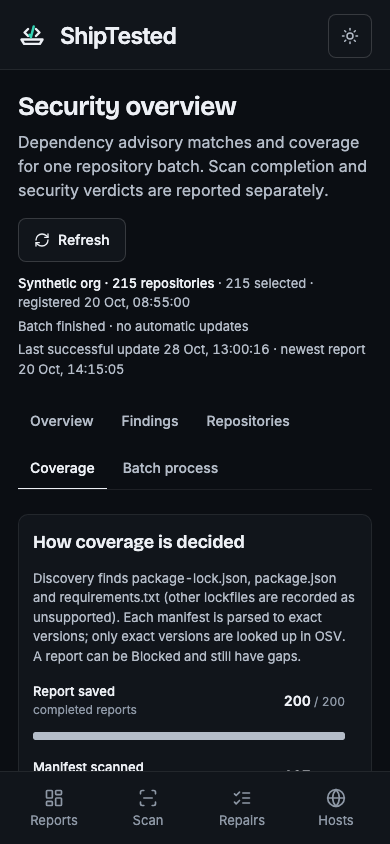
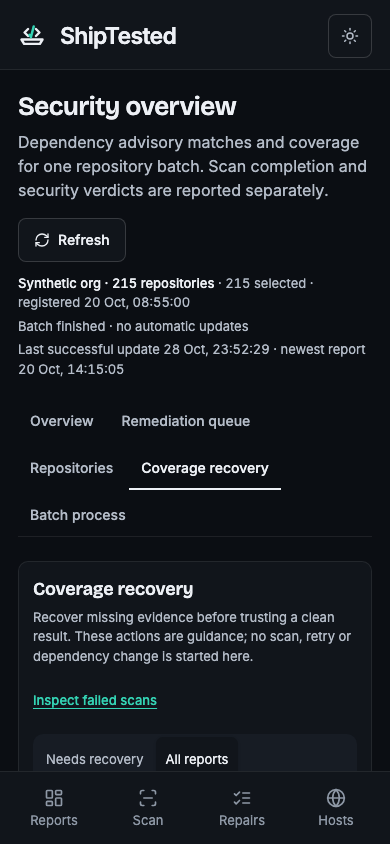
feat(dashboard): add remediation ranking and coverage recovery

Changed region(s): [[0.0615, 0.4929, 0.8923, 0.9242], [0.5846, 0.4005, 0.6769, 0.4313], [0.8308, 0.8009, 0.8615, 0.8318]]

diff --git a/src/app/security-overview/views.tsx b/src/app/security-overview/views.tsx
@@ -3,7 +3,7 @@ import {useEffect,useRef,useState} from 'react';
 import Link from 'next/link';
 import {ArrowUpRight,Search,X} from 'lucide-react';
 import {batchLabels,batchStates,type BatchState} from '@/lib/batch-progress';
-import {gapCodes,gapLabels,stageLabels,severities,verdicts,type GapCode,type Severity,type Verdict,type CoverageStage} from '@/lib/security-dashboard';
+import {remediationModes,remediationLabels,remediationDescriptions,recoveryActions,type RemediationMode,gapCodes,gapLabels,stageLabels,severities,verdicts,type GapCode,type Severity,type Verdict,type CoverageStage} from '@/lib/security-dashboard';
 import type {Loaded,Nav} from './security-dashboard';
 import styles from './security.module.css';
 
@@ -53,29 +53,29 @@ function FixLine({g}:{g:{packages:{name:string;installed:{version:string;fixedVe
  return <ul className={styles.fixList}>{g.packages.map(p=><li key={p.name}><code>{p.name}</code>{p.installed.map(i=><span key={i.version} className={styles.fixPair}><code>{i.version}</code><span aria-hidden="true">→</span>{i.fixedVersions.length?<code className={styles.fixed}>{i.fixedVersions.join(' / ')}</code>:<span className={styles.muted}>no fix recorded</span>}</span>)}{p.moreVersions?<span className={styles.muted}>+{p.moreVersions} more versions</span>:null}</li>)}</ul>;
 }
 
+function QueueRanking({value,nav}:{value:RemediationMode;nav:Nav}){
+ return <div className={styles.ranking}><Segmented<RemediationMode> label="Rank remediation queue" value={value} options={remediationModes.map(value=>({value,label:remediationLabels[value]}))} onChange={sort=>nav({sort})}/><p className={styles.note}>{remediationDescriptions[value]}</p></div>;
+}
+function FixSummary({g}:{g:Of<'fixFirst'>['fixFirst'][number]}){
+ return <span className={styles.source}>{g.packages.map(p=>p.name).join(' · ')} · {g.hasFix?'Fixed version recorded for at least one version':'No fixed version recorded'} · Open evidence for exact versions and manifests</span>;
+}
+function RecoverySteps({gaps}:{gaps:GapCode[]}){
+ const actions=recoveryActions(gaps);
+ return actions.length?<details className={styles.recoverySteps}><summary>{actions[0].title}{actions.length>1&&<small className={styles.source}>+{actions.length-1} more recovery {actions.length===2?'action':'actions'}</small>}</summary>{actions.map(a=><div key={a.code}><strong>{a.title}</strong><p>{a.action}</p></div>)}</details>:<span className={styles.muted}>No recorded dependency coverage gap. This does not establish full security coverage.</span>;
+}
+
 export function OverviewView({data,nav}:{data:Of<'fixFirst'>;nav:Nav}){
  const o=data.overview,op=o.operational;
  return <div className={styles.stackGap}>
-  <section className={styles.split} aria-labelledby="ops-h">
-   <div className={styles.panel}>
-    <h2 id="ops-h">What happened in the batch</h2>
-    <StackBar title="Repository processing" caption={`of ${n(o.batch.total)} selected repositories`} denominator={o.batch.total} segments={batchStates.map(s=>({key:s,label:batchLabels[s],count:op[s],tone:stateTone[s],onSelect:()=>nav({view:'process',state:s})}))}/>
-    <p className={styles.note}>{n(op.accepted)} scan jobs accepted · {n(op.completed)} completed · {n(op.failed+op.cancelled)} failed or cancelled · {n(op.skipped)} verified empty repositories skipped (not scanned) · {n(op.waiting+op.queued+op.running)} remaining. Processing state says nothing about security.</p>
-   </div>
-   <div className={styles.panel}>
-    <h2>Security verdicts</h2>
-    <StackBar title="Report verdicts" caption={`of ${n(o.verdicts.denominator)} completed reports (current revisions)`} denominator={o.verdicts.denominator} segments={verdicts.map(v=>({key:v,label:v,count:o.verdicts.counts[v],tone:verdictTone[v],onSelect:()=>nav({view:'repositories',verdict:v})}))}/>
-    <p className={styles.note}>Blocked = a high-severity advisory matched an installed version (not confirmed exploitation). Checks passed = only the supported checks passed.{o.verdicts.missingReports?` ${o.verdicts.missingReports} completed jobs have no readable report.`:''}{o.freshness.refreshedReports?` ${o.freshness.refreshedReports} reports are advisory-refresh revisions; each repository is counted once.`:''}</p>
-   </div>
-  </section>
-
+  <div className={styles.batchStrip}><span><strong>{n(op.completed)} / {n(o.batch.total)}</strong> scans completed</span><button type="button" onClick={()=>nav({view:'process'})}>{n(op.failed+op.cancelled)} failed or cancelled · {n(op.skipped)} skipped · {n(op.waiting+op.queued+op.running)} remaining</button><button type="button" onClick={()=>nav({view:'coverage',recovery:'needed'})}>Review coverage gaps <ArrowUpRight size={14} aria-hidden="true"/></button></div>
   <section className={styles.panel} aria-labelledby="first-h">
-   <div className={styles.sectionHead}><div><h2 id="first-h">Fix first</h2><p className={styles.note}>High, then medium advisories ordered by affected repositories, then CVSS, then whether a fixed version is recorded. This is a sort order over recorded facts, not a risk score.</p></div><button type="button" className={styles.linkButton} onClick={()=>nav({view:'findings'})}>All findings</button></div>
+   <div className={styles.sectionHead}><div><h2 id="first-h">Remediation queue</h2><p className={styles.note}>One advisory, every affected repository. Choose a ranking, then inspect the evidence before changing dependencies.</p></div><button type="button" className={styles.linkButton} onClick={()=>nav({view:'findings'})}>Open full queue</button></div>
+   <QueueRanking value={data.filters.sort} nav={nav}/>
    {data.fixFirst.length?<ol className={styles.queue}>{data.fixFirst.map((g,i)=><li key={g.key}>
     <span className={styles.rank}>{i+1}</span>
-    <div className={styles.queueMain}><button type="button" className={styles.titleButton} onClick={()=>nav({advisory:g.key},{keepPage:true})}><span className={styles.advId}>{g.advisoryId||'Credential pattern'}</span>{g.title}</button><FixLine g={g}/></div>
+    <div className={styles.queueMain}><button type="button" className={styles.titleButton} onClick={()=>nav({advisory:g.key},{keepPage:true})}><span className={styles.advId}>{g.advisoryId||'Credential pattern'}</span>{g.title}</button><FixSummary g={g}/></div>
     <div className={styles.queueMeta}><SeverityTag level={g.severity}/><span>{g.cvss!==null?`CVSS ${g.cvss.toFixed(1)}`:'CVSS not provided'}</span><span><strong>{n(g.repositories)}</strong> {g.repositories===1?'repository':'repositories'} · {n(g.occurrences)} occurrences</span></div>
-   </li>)}</ol>:<p className={styles.emptyLine}>No high or medium advisory matches in the completed reports. Coverage gaps below may still hide matches.</p>}
+   </li>)}</ol>:<p className={styles.emptyLine}>No recorded advisories match this queue. Coverage gaps may still hide matches.</p>}
   </section>
 
   <section className={styles.kpis} aria-label="Finding totals">
@@ -97,6 +97,19 @@ export function OverviewView({data,nav}:{data:Of<'fixFirst'>;nav:Nav}){
    </div>
   </section>
 
+  <section className={styles.split} aria-labelledby="ops-h">
+   <div className={styles.panel}>
+    <h2 id="ops-h">What happened in the batch</h2>
+    <StackBar title="Repository processing" caption={`of ${n(o.batch.total)} selected repositories`} denominator={o.batch.total} segments={batchStates.map(s=>({key:s,label:batchLabels[s],count:op[s],tone:stateTone[s],onSelect:()=>nav({view:'process',state:s})}))}/>
+    <p className={styles.note}>{n(op.accepted)} scan jobs accepted · {n(op.completed)} completed · {n(op.failed+op.cancelled)} failed or cancelled · {n(op.skipped)} verified empty repositories skipped (not scanned) · {n(op.waiting+op.queued+op.running)} remaining. Processing state says nothing about security.</p>
+   </div>
+   <div className={styles.panel}>
+    <h2>Security verdicts</h2>
+    <StackBar title="Report verdicts" caption={`of ${n(o.verdicts.denominator)} completed reports (current revisions)`} denominator={o.verdicts.denominator} segments={verdicts.map(v=>({key:v,label:v,count:o.verdicts.counts[v],tone:verdictTone[v],onSelect:()=>nav({view:'repositories',verdict:v})}))}/>
+    <p className={styles.note}>Blocked = a high-severity advisory matched an installed version (not confirmed exploitation). Checks passed = only the supported checks passed.{o.verdicts.missingReports?` ${o.verdicts.missingReports} completed jobs have no readable report.`:''}{o.freshness.refreshedReports?` ${o.freshness.refreshedReports} reports are advisory-refresh revisions; each repository is counted once.`:''}</p>
+   </div>
+  </section>
+
   <section className={styles.panel} aria-labelledby="gaps-h">
    <h2 id="gaps-h">Coverage gaps</h2>
    <p className={styles.note}>Each bar is out of {n(o.gaps.denominator)} completed reports, including Blocked ones. A report can have several gaps, so these categories overlap and must not be added together.</p>
@@ -114,16 +127,17 @@ function GapBars({counts,denominator,nav}:{counts:Record<GapCode,number>;denomin
 export function FindingsView({data,nav}:{data:Of<'findings'>;nav:Nav}){
  const f=data.findings,o=data.overview,flt=data.filters;
  return <section className={styles.panel} aria-labelledby="find-h">
-  <div className={styles.sectionHead}><div><h2 id="find-h">Findings across repositories</h2><p className={styles.note}>{n(o.findings.uniqueAdvisories)} unique advisories · {n(o.findings.affectedRepositories)} affected repositories · {n(o.findings.occurrences)} dependency occurrences. Grouped by advisory; an affected-version match is not confirmed exploitability.</p></div></div>
+  <div className={styles.sectionHead}><div><h2 id="find-h">Remediation queue</h2><p className={styles.note}>{n(o.findings.uniqueAdvisories)} unique advisories · {n(o.findings.affectedRepositories)} affected repositories · {n(o.findings.occurrences)} dependency occurrences. Grouped by advisory; an affected-version match is not confirmed exploitability.</p></div></div>
+  <QueueRanking value={flt.sort} nav={nav}/>
   <div className={styles.toolbar}><SearchBox label="Search advisory, package or repository" value={flt.q} onChange={q=>nav({q})}/>
    <Segmented<Severity> label="Filter by severity" value={flt.severity} onChange={v=>nav({severity:v})} options={[{value:null,label:'All',count:o.findings.uniqueAdvisories},...severities.map(s=>({value:s,label:sevLabel[s],count:o.findings.bySeverity[s]}))]}/>
    <Clear active={!!(flt.q||flt.severity)} nav={nav} keys={['q','severity']}/></div>
   {f.items.length?<div className={styles.tableWrap}><table className={styles.table}><caption className={styles.srOnly}>Advisories grouped across repositories</caption>
-   <thead><tr><th scope="col">Advisory</th><th scope="col">Severity</th><th scope="col">Installed → advisory fix</th><th scope="col" className={styles.num}>Repositories</th><th scope="col" className={styles.num}>Occurrences</th><th scope="col"><span className={styles.srOnly}>Evidence</span></th></tr></thead>
+   <thead><tr><th scope="col">Advisory</th><th scope="col">Severity</th><th scope="col">Remediation</th><th scope="col" className={styles.num}>Repositories</th><th scope="col" className={styles.num}>Occurrences</th><th scope="col"><span className={styles.srOnly}>Evidence</span></th></tr></thead>
    <tbody>{f.items.map(g=><tr key={g.key}>
     <th scope="row"><span className={styles.advId}>{g.advisoryId||'Credential pattern'}</span><span className={styles.cellTitle}>{g.title}</span></th>
     <td><SeverityTag level={g.severity}/><small className={styles.source}>{[g.cvss!==null&&!g.severitySources.some(x=>x.startsWith('CVSS'))?`CVSS ${g.cvss.toFixed(1)}`:null,...g.severitySources].filter(Boolean).join(' · ')||'Source not recorded'}</small></td>
-    <td><FixLine g={g}/></td>
+    <td><FixSummary g={g}/></td>
     <td className={styles.num}><strong>{n(g.repositories)}</strong><small className={styles.source}>{g.repositorySample.join(', ')}{g.repositories>3?'…':''}</small></td>
     <td className={styles.num}>{n(g.occurrences)}</td>
     <td><button type="button" className="button" onClick={()=>nav({advisory:g.key},{keepPage:true})}>Evidence<span className={styles.srOnly}> for {g.advisoryId||g.title}</span></button></td>
@@ -148,7 +162,7 @@ type RepoItem=Of<'repositories'>['repositories']['items'][number];
 function RepoTable({items,coverage}:{items:RepoItem[];coverage:boolean}){
  if(!items.length)return <p className={styles.emptyLine}>No repositories match these filters.</p>;
  return <div className={styles.tableWrap}><table className={styles.table}><caption className={styles.srOnly}>Repositories with completed reports</caption>
-  <thead><tr><th scope="col">Repository</th><th scope="col">Verdict</th>{!coverage&&<th scope="col" className={styles.num}>High</th>}{!coverage&&<th scope="col" className={styles.num}>Medium</th>}{!coverage&&<th scope="col" className={styles.num}>Low / unrated</th>}<th scope="col" className={styles.num}>Deps checked</th><th scope="col">Coverage</th><th scope="col"><span className={styles.srOnly}>Report</span></th></tr></thead>
+  <thead><tr><th scope="col">Repository</th><th scope="col">Verdict</th>{!coverage&&<th scope="col" className={styles.num}>High</th>}{!coverage&&<th scope="col" className={styles.num}>Medium</th>}{!coverage&&<th scope="col" className={styles.num}>Low / unrated</th>}<th scope="col" className={styles.num}>Deps checked</th><th scope="col">Coverage</th>{coverage&&<th scope="col">Next step</th>}<th scope="col"><span className={styles.srOnly}>Report</span></th></tr></thead>
   <tbody>{items.map(r=><tr key={r.repository}>
    <th scope="row"><span className={styles.repoName}>{r.repository}</span>{coverage&&'omissions' in r&&<CoverageDetail r={r as CoverageItem}/>}</th>
    <td><VerdictTag verdict={r.verdict}/></td>
@@ -157,6 +171,7 @@ function RepoTable({items,coverage}:{items:RepoItem[];coverage:boolean}){
    {!coverage&&<td className={styles.num}>{r.severityCounts.low} / {r.severityCounts.review}</td>}
    <td className={styles.num} data-zero={r.dependencyCount===0||undefined}>{n(r.dependencyCount)}<small className={styles.source}>{r.manifests} manifests{r.omitted?` · ${r.omitted} omitted`:''}</small></td>
    <td>{r.stage&&<span className={styles.stage} data-stage={r.stage}>{stageLabels[r.stage]}</span>}{r.gaps.filter(g=>g!=='zero_dependencies').length>0&&<ul className={styles.chips}>{r.gaps.filter(g=>g!=='zero_dependencies').map(g=><li key={g}>{gapLabels[g].label}</li>)}</ul>}</td>
+   {coverage&&<td><RecoverySteps gaps={r.gaps}/></td>}
    <td>{r.reportId&&<Link href={reportHref(r.reportId)}>Report<span className={styles.srOnly}> for {r.repository}</span></Link>}{r.refreshed&&<small className={styles.source}>refreshed revision</small>}</td>
   </tr>)}</tbody></table></div>;
 }
@@ -164,7 +179,8 @@ function RepoTable({items,coverage}:{items:RepoItem[];coverage:boolean}){
 type CoverageItem=RepoItem&{omissions:{path:string;reason:string;recorded:boolean}[];moreOmissions:number;manifestPaths:string[];dependenciesByManifest:Record<string,number>};
 function CoverageDetail({r}:{r:CoverageItem}){
  if(!r.manifestPaths.length&&!r.omissions.length)return <small className={styles.source}>No supported manifest found by discovery.</small>;
- return <details className={styles.details}><summary>{r.manifestPaths.length} scanned · {r.omissions.length+r.moreOmissions} omitted</summary>
+ return <details className={styles.details}><summary>{r.manifests} scanned · {r.omissions.length+r.moreOmissions} omitted</summary>
+  <p className={styles.note}>Scanned commit: <code>{r.commit||'Not recorded'}</code>. Showing up to 20 manifest paths; see the report for the full evidence.</p>
   {r.manifestPaths.length>0&&<ul>{r.manifestPaths.map(m=><li key={m}><code>{m}</code><span>{n(r.dependenciesByManifest[m]||0)} exact versions</span></li>)}</ul>}
   {r.omissions.length>0&&<ul>{r.omissions.map(o=><li key={o.path}><code>{o.path}</code><span data-unrecorded={!o.recorded||undefined}>{o.reason}</span></li>)}{r.moreOmissions?<li className={styles.muted}>+{r.moreOmissions} more omitted files in the report</li>:null}</ul>}
  </details>;
@@ -174,15 +190,9 @@ export function CoverageView({data,nav}:{data:Of<'repositories'>;nav:Nav}){
  const o=data.overview,p=o.pipeline,flt=data.filters;
  const steps=[['Report saved','completed reports',p.reports],['Manifest scanned','≥1 supported manifest read',p.manifestScanned],['Exact versions resolved','≥1 pinned dependency',p.versionsResolved],['Advisory lookup complete','no provider, deadline or limit gap',p.lookupComplete]] as const;
  return <div className={styles.stackGap}>
-  <section className={styles.panel} aria-labelledby="cov-h">
-   <h2 id="cov-h">How coverage is decided</h2>
-   <p className={styles.note}>Discovery finds package-lock.json, package.json and requirements.txt (other lockfiles are recorded as unsupported). Each manifest is parsed to exact versions; only exact versions are looked up in OSV. A report can be Blocked and still have gaps.</p>
-   <ol className={styles.funnel}>{steps.map(([label,hint,value])=><li key={label}><span className={styles.funnelLabel}>{label}<small>{hint}</small></span><span className={styles.gapTrack} aria-hidden="true"><span style={{width:p.reports?`${value/p.reports*100}%`:0}}/></span><span className={styles.gapValue}><strong>{n(value)}</strong> / {n(p.reports)}</span></li>)}</ol>
-   <h3 className={styles.subhead}>Gaps (overlapping)</h3>
-   <GapBars counts={o.gaps.counts} denominator={o.gaps.denominator} nav={nav}/>
-  </section>
   <section className={styles.panel} aria-labelledby="covlist-h">
-   <h2 id="covlist-h">Repository coverage</h2>
+   <div className={styles.sectionHead}><div><h2 id="covlist-h">Coverage recovery</h2><p className={styles.note}>Recover missing evidence before trusting a clean result. These actions are guidance; no scan, retry or dependency change is started here.</p></div><button type="button" className={styles.linkButton} onClick={()=>nav({view:'process',state:'failed'})}>Inspect failed scans</button></div>
+   <Segmented label="Recovery scope" value={flt.recovery} options={[{value:'needed',label:'Needs recovery'},{value:null,label:'All reports'}]} onChange={recovery=>nav({recovery})}/>
    <div className={styles.toolbar}><SearchBox label="Search repositories" value={flt.q} onChange={q=>nav({q})}/>
     <label className={styles.select}><span>Gap</span><select value={flt.gap||''} onChange={e=>nav({gap:e.target.value||null})}><option value="">Any</option>{gapCodes.map(g=><option key={g} value={g}>{gapLabels[g].label} ({o.gaps.counts[g]})</option>)}</select></label>
     <label className={styles.select}><span>Stage</span><select value={flt.stage||''} onChange={e=>nav({stage:(e.target.value||null) as CoverageStage|null})}><option value="">Any</option>{(Object.keys(stageLabels) as CoverageStage[]).map(s=><option key={s} value={s}>{stageLabels[s]}</option>)}</select></label>
@@ -192,6 +202,14 @@ export function CoverageView({data,nav}:{data:Of<'repositories'>;nav:Nav}){
    <RepoTable items={data.repositories.items} coverage/>
    <Pager {...data.repositories} nav={nav} noun="repositories"/>
   </section>
+  <section className={styles.panel} aria-labelledby="cov-h">
+   <h2 id="cov-h">How coverage is decided</h2>
+   <p className={styles.note}>Discovery finds package-lock.json, package.json and requirements.txt (other lockfiles are recorded as unsupported). Each manifest is parsed to exact versions; only exact versions are looked up in OSV. A report can be Blocked and still have gaps.</p>
+   <ol className={styles.funnel}>{steps.map(([label,hint,value])=><li key={label}><span className={styles.funnelLabel}>{label}<small>{hint}</small></span><span className={styles.gapTrack} aria-hidden="true"><span style={{width:p.reports?`${value/p.reports*100}%`:0}}/></span><span className={styles.gapValue}><strong>{n(value)}</strong> / {n(p.reports)}</span></li>)}</ol>
+   <h3 className={styles.subhead}>Gaps (overlapping)</h3>
+   <GapBars counts={o.gaps.counts} denominator={o.gaps.denominator} nav={nav}/>
+  </section>
+
  </div>;
 }
 

diff --git a/src/lib/server/security-dashboard.ts b/src/lib/server/security-dashboard.ts
@@ -2,7 +2,7 @@ import type {Query} from './db';
 import type {Actor} from './store';
 import {ApiError} from './http';
 import {batchStates,type BatchState} from '../batch-progress';
-import {summarize,groupFindings,overview,lifecycle,throughput,median,fixFirstOrder,repositoryOrder,hasFix,exploitPrerequisites,explainFailure,
+import {summarize,groupFindings,overview,lifecycle,throughput,median,remediationQueue,remediationModes,repositoryOrder,hasFix,exploitPrerequisites,explainFailure,
  severities,verdicts,gapCodes,type EntryRow,type JobEvent,type RepoSummary,type AdvisoryGroup,type Severity,type Verdict,type GapCode,type CoverageStage} from '../security-dashboard';
 
 const PAGE_ROWS=50,MAX_EVENTS=6000;
@@ -68,7 +68,7 @@ async function jobIds(query:Query,actor:Actor,batchId:string){
  return new Map(rows.map(r=>[String(r.repository),String(r.id)]));
 }
 
-export type DashboardParams={batch?:string|null;view?:string|null;q?:string|null;severity?:string|null;verdict?:string|null;gap?:string|null;stage?:string|null;state?:string|null;advisory?:string|null;page?:string|null};
+export type DashboardParams={sort?:string|null;recovery?:string|null;batch?:string|null;view?:string|null;q?:string|null;severity?:string|null;verdict?:string|null;gap?:string|null;stage?:string|null;state?:string|null;advisory?:string|null;page?:string|null};
 const views=['overview','findings','repositories','coverage','process'] as const;
 const pick=<T extends string>(value:string|null|undefined,allowed:readonly T[])=>value&&(allowed as readonly string[]).includes(value)?value as T:null;
 const stages=['no_scanned_manifest','zero_resolved','partial','complete'] as const;
@@ -78,7 +78,7 @@ const groupSummary=(g:AdvisoryGroup)=>({key:g.key,advisoryId:g.advisoryId,title:
  repositories:g.repositories.length,repositorySample:g.repositories.slice(0,3),occurrences:g.occurrenceCount,hasFix:hasFix(g),
  packages:g.packages.map(p=>({...p,installed:p.installed.slice(0,8),moreVersions:Math.max(0,p.installed.length-8)})).slice(0,4)});
 const repoRow=(s:RepoSummary)=>({repository:s.repository,state:s.state,verdict:s.verdict,reportId:s.reportId,severityCounts:s.severityCounts,advisoryCount:s.advisoryCount,
- dependencyCount:s.dependencyCount,manifests:s.manifests.length,omitted:s.omissions.length,stage:s.stage,gaps:s.gaps,refreshed:s.refreshed,reportCreatedAt:s.reportCreatedAt});
+ dependencyCount:s.dependencyCount,manifests:s.manifests.length,omitted:s.omissions.length,stage:s.stage,gaps:s.gaps,refreshed:s.refreshed,reportCreatedAt:s.reportCreatedAt,commit:s.commit});
 
 export async function securityDashboard(query:Query,actor:Actor,params:DashboardParams,now=new Date()){
  const batches=await listBatches(query,actor);
@@ -88,12 +88,15 @@ export async function securityDashboard(query:Query,actor:Actor,params:Dashboard
  if(!batch)throw new ApiError(404,'Batch not found.');
  const rows=await loadBatchRows(query,actor,batch.id);
  const summaries=rows.map(summarize),byRepo=new Map(summaries.map(s=>[s.repository,s]));
- const groups=groupFindings(rows,byRepo).sort(fixFirstOrder);
+ const sort=pick(params.sort,remediationModes)||'widespread';
+ const groups=groupFindings(rows,byRepo);
+ const ranked=remediationQueue(groups,sort);
  const checkedAt=now.toISOString(),ov=overview(batch,summaries,groups,checkedAt);
  const view=pick(params.view,views)||'overview',q=(params.q||'').trim().toLowerCase().slice(0,120),page=Number(params.page)||1;
  const severity=pick(params.severity,severities as readonly Severity[]),verdict=pick(params.verdict,verdicts as readonly Verdict[]);
  const gap=pick(params.gap,gapCodes as readonly GapCode[]),stage=pick(params.stage,stages as readonly CoverageStage[]),state=pick(params.state,batchStates as readonly BatchState[]);
- const filters={view,q,severity,verdict,gap,stage,state,advisory:params.advisory||null};
+ const recovery=params.recovery==='needed'?'needed':null;
+ const filters={sort,recovery,view,q,severity,verdict,gap,stage,state,advisory:params.advisory||null};
  const base={batches,batch,overview:ov,filters};
 
  if(params.advisory){
@@ -102,17 +105,17 @@ export async function securityDashboard(query:Query,actor:Actor,params:Dashboard
    occurrenceList:g.occurrences.slice(0,500),truncated:g.occurrences.length>500}};
  }
  if(view==='overview'){
-  const fixFirst=groups.filter(g=>g.severity==='high'||g.severity==='medium').slice(0,8).map(groupSummary);
+  const fixFirst=ranked.slice(0,5).map(groupSummary);
   const attention=summaries.filter(s=>s.verdict==='Blocked').sort(repositoryOrder).slice(0,8).map(repoRow);
   const zeroChecked=summaries.filter(s=>s.verdict&&s.dependencyCount===0).length;
   return {...base,fixFirst,attention,zeroChecked};
  }
  if(view==='findings'){
-  const items=groups.filter(g=>(!severity||g.severity===severity)&&(!q||[g.advisoryId,g.title,...g.repositories,...g.packages.map(p=>p.name)].some(v=>v?.toLowerCase().includes(q))));
+  const items=ranked.filter(g=>(!severity||g.severity===severity)&&(!q||[g.advisoryId,g.title,...g.repositories,...g.packages.map(p=>p.name)].some(v=>v?.toLowerCase().includes(q))));
   return {...base,findings:paginate(items.map(groupSummary),page,25)};
  }
  if(view==='repositories'||view==='coverage'){
-  const items=summaries.filter(s=>s.verdict&&(!verdict||s.verdict===verdict)&&(!gap||s.gaps.includes(gap))&&(!stage||s.stage===stage)&&(!q||s.repository.toLowerCase().includes(q)))
+  const items=summaries.filter(s=>s.verdict&&(!(view==='coverage'&&recovery)||s.gaps.length>0)&&(!verdict||s.verdict===verdict)&&(!gap||s.gaps.includes(gap))&&(!stage||s.stage===stage)&&(!q||s.repository.toLowerCase().includes(q)))
    .sort(view==='coverage'?(a,b)=>a.dependencyCount-b.dependencyCount||a.position-b.position:repositoryOrder);
   const paged=paginate(items,page,PAGE_ROWS);
   return {...base,repositories:{...paged,items:paged.items.map(s=>view==='coverage'?{...repoRow(s),omissions:s.omissions.slice(0,20),moreOmissions:Math.max(0,s.omissions.length-20),

diff --git a/src/lib/security-dashboard.ts b/src/lib/security-dashboard.ts
@@ -208,3 +208,39 @@ export function throughput(events:JobEvent[],bucketMs=30*60000){
  return buckets;
 }
 export const explainFailure=(code:string|null)=>code?failureExplanations[code]||`Recorded failure code “${code}”. No further detail was stored.`:'No failure code was recorded.';
+
+/** Ranking uses recorded facts only. Fix availability can cover only some installed versions. */
+export const remediationModes=['widespread','severity','fixable'] as const;
+export type RemediationMode=typeof remediationModes[number];
+export const remediationLabels:Record<RemediationMode,string>={widespread:'Most widespread',severity:'Highest reported severity',fixable:'Fix available'};
+export const remediationDescriptions:Record<RemediationMode,string>={
+ widespread:'Affected repositories first, then reported severity and CVSS. Reachability and deployment exposure are unknown.',
+ severity:'Reported severity first, then CVSS and affected repositories. Advisory severity and CVSS can differ.',
+ fixable:'Only advisories with a recorded fix for at least one installed version, ordered by affected repositories. A fix may not cover every occurrence.'
+};
+export function remediationQueue(groups:AdvisoryGroup[],mode:RemediationMode){
+ return groups.filter(g=>mode!=='fixable'||hasFix(g)).sort((a,b)=>
+  (mode==='severity' ? order[a.severity]-order[b.severity]||(b.cvss??-1)-(a.cvss??-1)||b.repositories.length-a.repositories.length
+   : b.repositories.length-a.repositories.length||order[a.severity]-order[b.severity]||(b.cvss??-1)-(a.cvss??-1))
+  ||b.occurrenceCount-a.occurrenceCount||a.key.localeCompare(b.key));
+}
+export const recoveryGuidance:Record<GapCode,{title:string;action:string}>={
+ no_manifest_found:{title:'Check discovery and ecosystem',action:'Inspect the scanned commit and repository layout. If it contains dependencies, check whether their manifest format is supported. An unsupported ecosystem needs scanner support; a repository without dependencies may have nothing to resolve.'},
+ manifests_not_scanned:{title:'Review unscanned manifests',action:'Inspect the omitted paths and recorded reasons. Resolve unsupported formats, parsing failures or scan limits before requesting another scan.'},
+ unsupported_lockfile:{title:'Resolve lockfile support',action:'Check the omitted lockfile format. Use a scanner that supports that format, or add parser support. Do not replace the project’s package manager merely to obtain a passing report.'},
+ package_json_only:{title:'Provide resolved npm dependencies',action:'For npm projects, commit the matching package-lock.json v2 or v3 generated by the project’s normal install workflow. package.json alone does not resolve the transitive dependency tree.'},
+ python_syntax:{title:'Resolve Python dependency inputs',action:'Review markers, includes, URLs and options in the listed requirements files. Provide a reproducible exact-version dependency export for the intended environment, or extend parser support; do not discard environment constraints.'},
+ unresolved_versions:{title:'Provide exact installed versions',action:'Review unresolved declarations in the report. Supply the project’s reproducible resolved dependency inputs in a supported format before scanning again.'},
+ manifest_scan_failed:{title:'Diagnose the manifest failure',action:'Open the report and inspect the failing path and recorded scan error. Correct malformed input or scanner handling before requesting another scan.'},
+ advisory_provider:{title:'Restore advisory lookup coverage',action:'Review the failed advisory checks and provider availability. Once resolved, request a controlled lookup refresh from saved exact dependencies where supported, or a new scan. No refresh has been started here.'},
+ deadline_or_limits:{title:'Review the scan budget',action:'Inspect recorded file, dependency and time limits. Adjust the supported scan scope or worker budget before requesting another scan; do not silently omit dependencies.'},
+ omitted_files:{title:'Inspect omitted files',action:'Expand manifest evidence to inspect each omitted path. Where the reason is missing, inspect the original report or worker diagnostics before choosing a recovery action.'},
+ zero_dependencies:{title:'Diagnose zero resolved dependencies',action:'No exact dependencies were checked. Inspect manifest discovery and parsing evidence before treating this report as a security result.'}
+};
+export function recoveryActions(gaps:GapCode[]){
+ const specific=gaps.filter(g=>!['zero_dependencies','omitted_files','manifests_not_scanned'].includes(g));
+ // Keep unclassified omissions visible even when a different, specific gap is present.
+ const selected=[...specific,...gaps.filter(g=>g==='omitted_files'),...(!specific.length?gaps.filter(g=>g==='manifests_not_scanned'):[])];
+ if(!selected.length&&gaps.includes('zero_dependencies'))selected.push('zero_dependencies');
+ return [...new Set(selected)].map(code=>({code,...recoveryGuidance[code]}));
+}

diff --git a/tests/browser/security-dashboard.spec.ts b/tests/browser/security-dashboard.spec.ts
@@ -65,10 +65,10 @@ test('coverage shows reasons honestly and finds zero-dependency repositories',as
  await page.goto('/security-overview?view=coverage&gap=zero_dependencies');
  await expect(page.getByText('1–50 of 95 repositories')).toBeVisible();
  await page.goto('/security-overview?view=coverage&gap=omitted_files&verdict=Blocked');
- await page.getByRole('row').nth(1).locator('summary').click();
- await expect(page.getByText('Unsupported lockfile format').first()).toBeVisible();
+ await page.getByRole('row').nth(1).locator('summary').filter({hasText:/scanned/}).click();
+ await expect(page.getByRole('row').nth(1).locator('details[open]').getByText('Unsupported lockfile format',{exact:true})).toBeVisible();
  await page.goto('/security-overview?view=coverage&stage=partial');
- await page.getByRole('row').nth(1).locator('summary').click();
+ await page.getByRole('row').nth(1).locator('summary').filter({hasText:/scanned/}).click();
  await expect(page.getByText('Manifest could not be parsed or scanned').first()).toBeVisible();
  await page.goto('/security-overview?view=coverage');
  await page.screenshot({path:`${shots}/coverage-desktop-dark.png`,fullPage:true});
@@ -112,4 +112,25 @@ test('signed-out and stale states keep private data out of view',async({page})=>
  await page.unroute('**/api/security**');await serve(page,()=>finished,{status:401});
  await page.getByRole('button',{name:'Refresh',exact:true}).click();
  await expect(page.getByRole('link',{name:'Sign in with GitHub'})).toBeVisible();await expect(page.getByText('of 200 completed reports')).toHaveCount(0);
+});
+
+test('queue ranking and coverage recovery are deep-linked read-only workflows',async({page})=>{
+ await serve(page,()=>finished);await page.setViewportSize({width:1440,height:1000});
+ const writes:string[]=[];page.on('request',r=>{if(r.url().includes('/api/')&&r.method()!=='GET')writes.push(r.method()+' '+r.url());});
+ await page.goto('/security-overview?view=findings');
+ await page.getByRole('button',{name:'Highest reported severity',exact:true}).click();
+ await expect(page).toHaveURL(/sort=severity/);
+ await expect(page.getByRole('row').nth(2)).toContainText('example-template-engine');
+ await page.getByRole('button',{name:'Fix available',exact:true}).click();
+ await expect(page.getByRole('table')).not.toContainText('example-template-engine');
+ await page.reload();await expect(page.getByRole('button',{name:'Fix available',pressed:true})).toBeVisible();
+ await page.goto('/security-overview?view=coverage&gap=python_syntax&recovery=needed');
+ await expect(page.getByRole('heading',{name:'Coverage recovery',exact:true})).toBeVisible();
+ await expect(page.locator('summary').filter({hasText:'Resolve Python dependency inputs'}).first()).toBeVisible();
+ await page.locator('summary').filter({hasText:'Resolve Python dependency inputs'}).first().click();
+ await expect(page.getByText(/Provide a reproducible exact-version dependency export/).first()).toBeVisible();
+ await page.screenshot({path:`${shots}/coverage-recovery-desktop-dark.png`});
+ await expect(page.getByRole('button',{name:'Needs recovery',pressed:true})).toBeVisible();
+ await page.getByRole('button',{name:'Inspect failed scans'}).click();await expect(page).toHaveURL(/view=process.*state=failed/);
+ expect(writes).toEqual([]);
 });

diff --git a/tests/security-dashboard.test.ts b/tests/security-dashboard.test.ts
@@ -133,3 +133,32 @@ describe('pure helpers',()=>{
   expect(summarize({...row,verdict:'Something else'}).verdict).toBeNull();
  });
 });
+
+it('ranks the entire remediation queue by explicit recorded facts without mutating groups',async()=>{
+ const {remediationQueue}=await import('../src/lib/security-dashboard');
+ const response=await securityDashboard(q,actor,{advisory:'osv:GHSA-aaaa'});
+ if(!('advisory' in response))throw Error();
+ const base=response.advisory;
+ const group=(key:string,repos:number,severity:'high'|'medium',cvss:number|null,fix:boolean)=>({...base,key,severity,cvss,repositories:Array.from({length:repos},(_,i)=>`r${i}`),occurrenceCount:repos,occurrences:[],packages:fix?base.packages:[]});
+ const groups=[group('wide',50,'medium',5,true),group('severe',1,'high',9.9,false),group('unknown',2,'high',null,true)];
+ expect(remediationQueue(groups,'widespread').map(g=>g.key)).toEqual(['wide','unknown','severe']);
+ expect(remediationQueue(groups,'severity').map(g=>g.key)).toEqual(['severe','unknown','wide']);
+ expect(remediationQueue(groups,'fixable').map(g=>g.key)).toEqual(['wide','unknown']);
+ expect(groups.map(g=>g.key)).toEqual(['wide','severe','unknown']);
+});
+it('validates queue modes and filters recovery without losing blocked coverage gaps',async()=>{
+ const response=await securityDashboard(q,actor,{view:'findings',sort:'untrusted'});
+ if(!('findings' in response))throw Error();expect(response.filters.sort).toBe('widespread');
+ const coverage=await securityDashboard(q,actor,{view:'coverage',recovery:'needed'});
+ if(!('repositories' in coverage))throw Error();
+ expect(coverage.repositories.items.every(r=>r.gaps.length>0)).toBe(true);
+ expect(coverage.repositories.items.some(r=>r.verdict==='Blocked')).toBe(true);
+ expect(coverage.repositories.items.find(r=>r.repository===repo('blocked-b'))?.commit).toBe('abc');
+});
+it('provides recovery guidance for every recorded gap without hiding unclassified omissions',async()=>{
+ const {gapCodes,recoveryActions}=await import('../src/lib/security-dashboard');
+ for(const gap of gapCodes)expect(recoveryActions([gap])[0].action.length).toBeGreaterThan(40);
+ const actions=recoveryActions(['zero_dependencies','python_syntax','omitted_files']);
+ expect(actions.map(a=>a.code)).toEqual(['python_syntax','omitted_files']);
+ expect(actions[0].action).not.toContain('npm');expect(recoveryActions([])).toEqual([]);
+});

diff --git a/src/app/security-overview/security.module.css b/src/app/security-overview/security.module.css
@@ -151,3 +151,8 @@
  .drawerInner{padding:20px 16px 40px}.drawerHead{top:-20px;margin-top:-20px;padding-top:20px}
  .heading .headingActions{width:100%}
 }
+
+.batchStrip{display:flex;align-items:center;flex-wrap:wrap;gap:8px 24px;padding:0 0 16px;border-bottom:1px solid var(--line);font-size:13px;color:var(--body2)}
+.batchStrip strong{color:var(--text)}.batchStrip button{display:inline-flex;align-items:center;gap:4px;min-height:36px;background:none;border:0;padding:0;font:inherit;color:var(--accent);cursor:pointer;text-align:left}.batchStrip button:hover{text-decoration:underline}
+.ranking{display:grid;justify-items:start;gap:8px;margin:16px 0 20px}.ranking .note{margin:0}
+.recoverySteps{min-width:240px;max-width:360px;line-height:1.5}.recoverySteps strong{font-weight:500;color:var(--text)}.recoverySteps p{margin:4px 0 10px;color:var(--body2)}.recoverySteps summary{cursor:pointer;color:var(--accent);min-height:32px}.recoverySteps details>div{margin-top:12px}

diff --git a/src/app/api/security/route.ts b/src/app/api/security/route.ts
@@ -10,6 +10,6 @@ export async function GET(request:Request){
  try{
   const query=database(),actor=await requireApiActor(request,query),p=new URL(request.url).searchParams;
   const get=(k:string)=>p.get(k);
-  return json(await securityDashboard(query,actor,{batch:get('batch'),view:get('view'),q:get('q'),severity:get('severity'),verdict:get('verdict'),gap:get('gap'),stage:get('stage'),state:get('state'),advisory:get('advisory'),page:get('page')}));
+  return json(await securityDashboard(query,actor,{sort:get('sort'),recovery:get('recovery'),batch:get('batch'),view:get('view'),q:get('q'),severity:get('severity'),verdict:get('verdict'),gap:get('gap'),stage:get('stage'),state:get('state'),advisory:get('advisory'),page:get('page')}));
  }catch(error){return failure(error);}
 }

diff --git a/tests/browser/security-fixture.ts b/tests/browser/security-fixture.ts
@@ -63,5 +63,5 @@ function report(i:number){
 }
 export async function respond(q:Query,url:string){
  const p=new URL(url).searchParams,get=(k:string)=>p.get(k);
- return securityDashboard(q,actor,{batch:get('batch'),view:get('view'),q:get('q'),severity:get('severity'),verdict:get('verdict'),gap:get('gap'),stage:get('stage'),state:get('state'),advisory:get('advisory'),page:get('page')},new Date('2026-10-20T14:00:00Z'));
+ return securityDashboard(q,actor,{sort:get('sort'),recovery:get('recovery'),batch:get('batch'),view:get('view'),q:get('q'),severity:get('severity'),verdict:get('verdict'),gap:get('gap'),stage:get('stage'),state:get('state'),advisory:get('advisory'),page:get('page')},new Date('2026-10-20T14:00:00Z'));
 }

diff --git a/src/app/security-overview/security-dashboard.tsx b/src/app/security-overview/security-dashboard.tsx
@@ -13,7 +13,7 @@ import styles from './security.module.css';
 export type Data=Awaited<ReturnType<typeof securityDashboard>>;
 export type Loaded=Extract<Data,{overview:unknown}>;
 export type Nav=(changes:Record<string,string|null>,options?:{keepPage?:boolean})=>void;
-const tabs=[['overview','Overview'],['findings','Findings'],['repositories','Repositories'],['coverage','Coverage'],['process','Batch process']] as const;
+const tabs=[['overview','Overview'],['findings','Remediation queue'],['repositories','Repositories'],['coverage','Coverage recovery'],['process','Batch process']] as const;
 const ACTIVE_POLL_MS=10000;
 
 export default function SecurityDashboard(){

diff --git a/docs/security-dashboard/README.md b/docs/security-dashboard/README.md
@@ -173,3 +173,19 @@ Then sign in and open `http://127.0.0.1:3147/security-overview`. Real batch data
   - `src/lib/server/batch-progress.ts`: failure codes explained in plain words
   - `src/proxy.ts`: public demo rewrites `/security-overview` to the demo-access page
   - `tests/public-demo.test.ts`: handler count 43 → 44, plus the new page and API in the refusal list
+
+### Remediation queue and coverage recovery
+
+The overview starts with a compact batch summary and five grouped advisories. The full remediation queue supports URL-persisted ranking:
+
+- `sort=widespread`: affected repository count, reported severity, then CVSS.
+- `sort=severity`: reported severity, CVSS, then affected repository count.
+- `sort=fixable`: filter to advisories with a recorded fixed version for at least one occurrence, then order by repository count, severity and CVSS.
+
+Ties use occurrence count and stable advisory key. Filtering and ranking happen across the whole owner-scoped batch before pagination. These are factual sort orders, not exploitability or exposure scores. Fix availability is partial when only some installed versions have recorded fixes. The evidence drawer retains exact versions, manifests, source links and unknown exposure.
+
+Coverage recovery (`view=coverage&recovery=needed`) filters to reports with recorded gaps, including Blocked reports. All reports remain available through the scope control. Each row provides guidance for its recorded gap, additional recovery actions, and manifest/omission evidence. Missing omission reasons remain unknown. The manifest disclosure shows the scanned commit and a bounded list; the original report retains full evidence. Failed scans remain separate in Batch process.
+
+These views only read existing reports. They do not change repositories, create repair PRs, submit scans, refresh advisories, reserve allowance, or claim that following guidance has recovered coverage. Authenticated workspace and owner filters and the public-demo refusal remain in place. No schema migration is required.
+
+Browser screenshots use the existing explicitly synthetic fixture; they are not evidence of live batch results.
